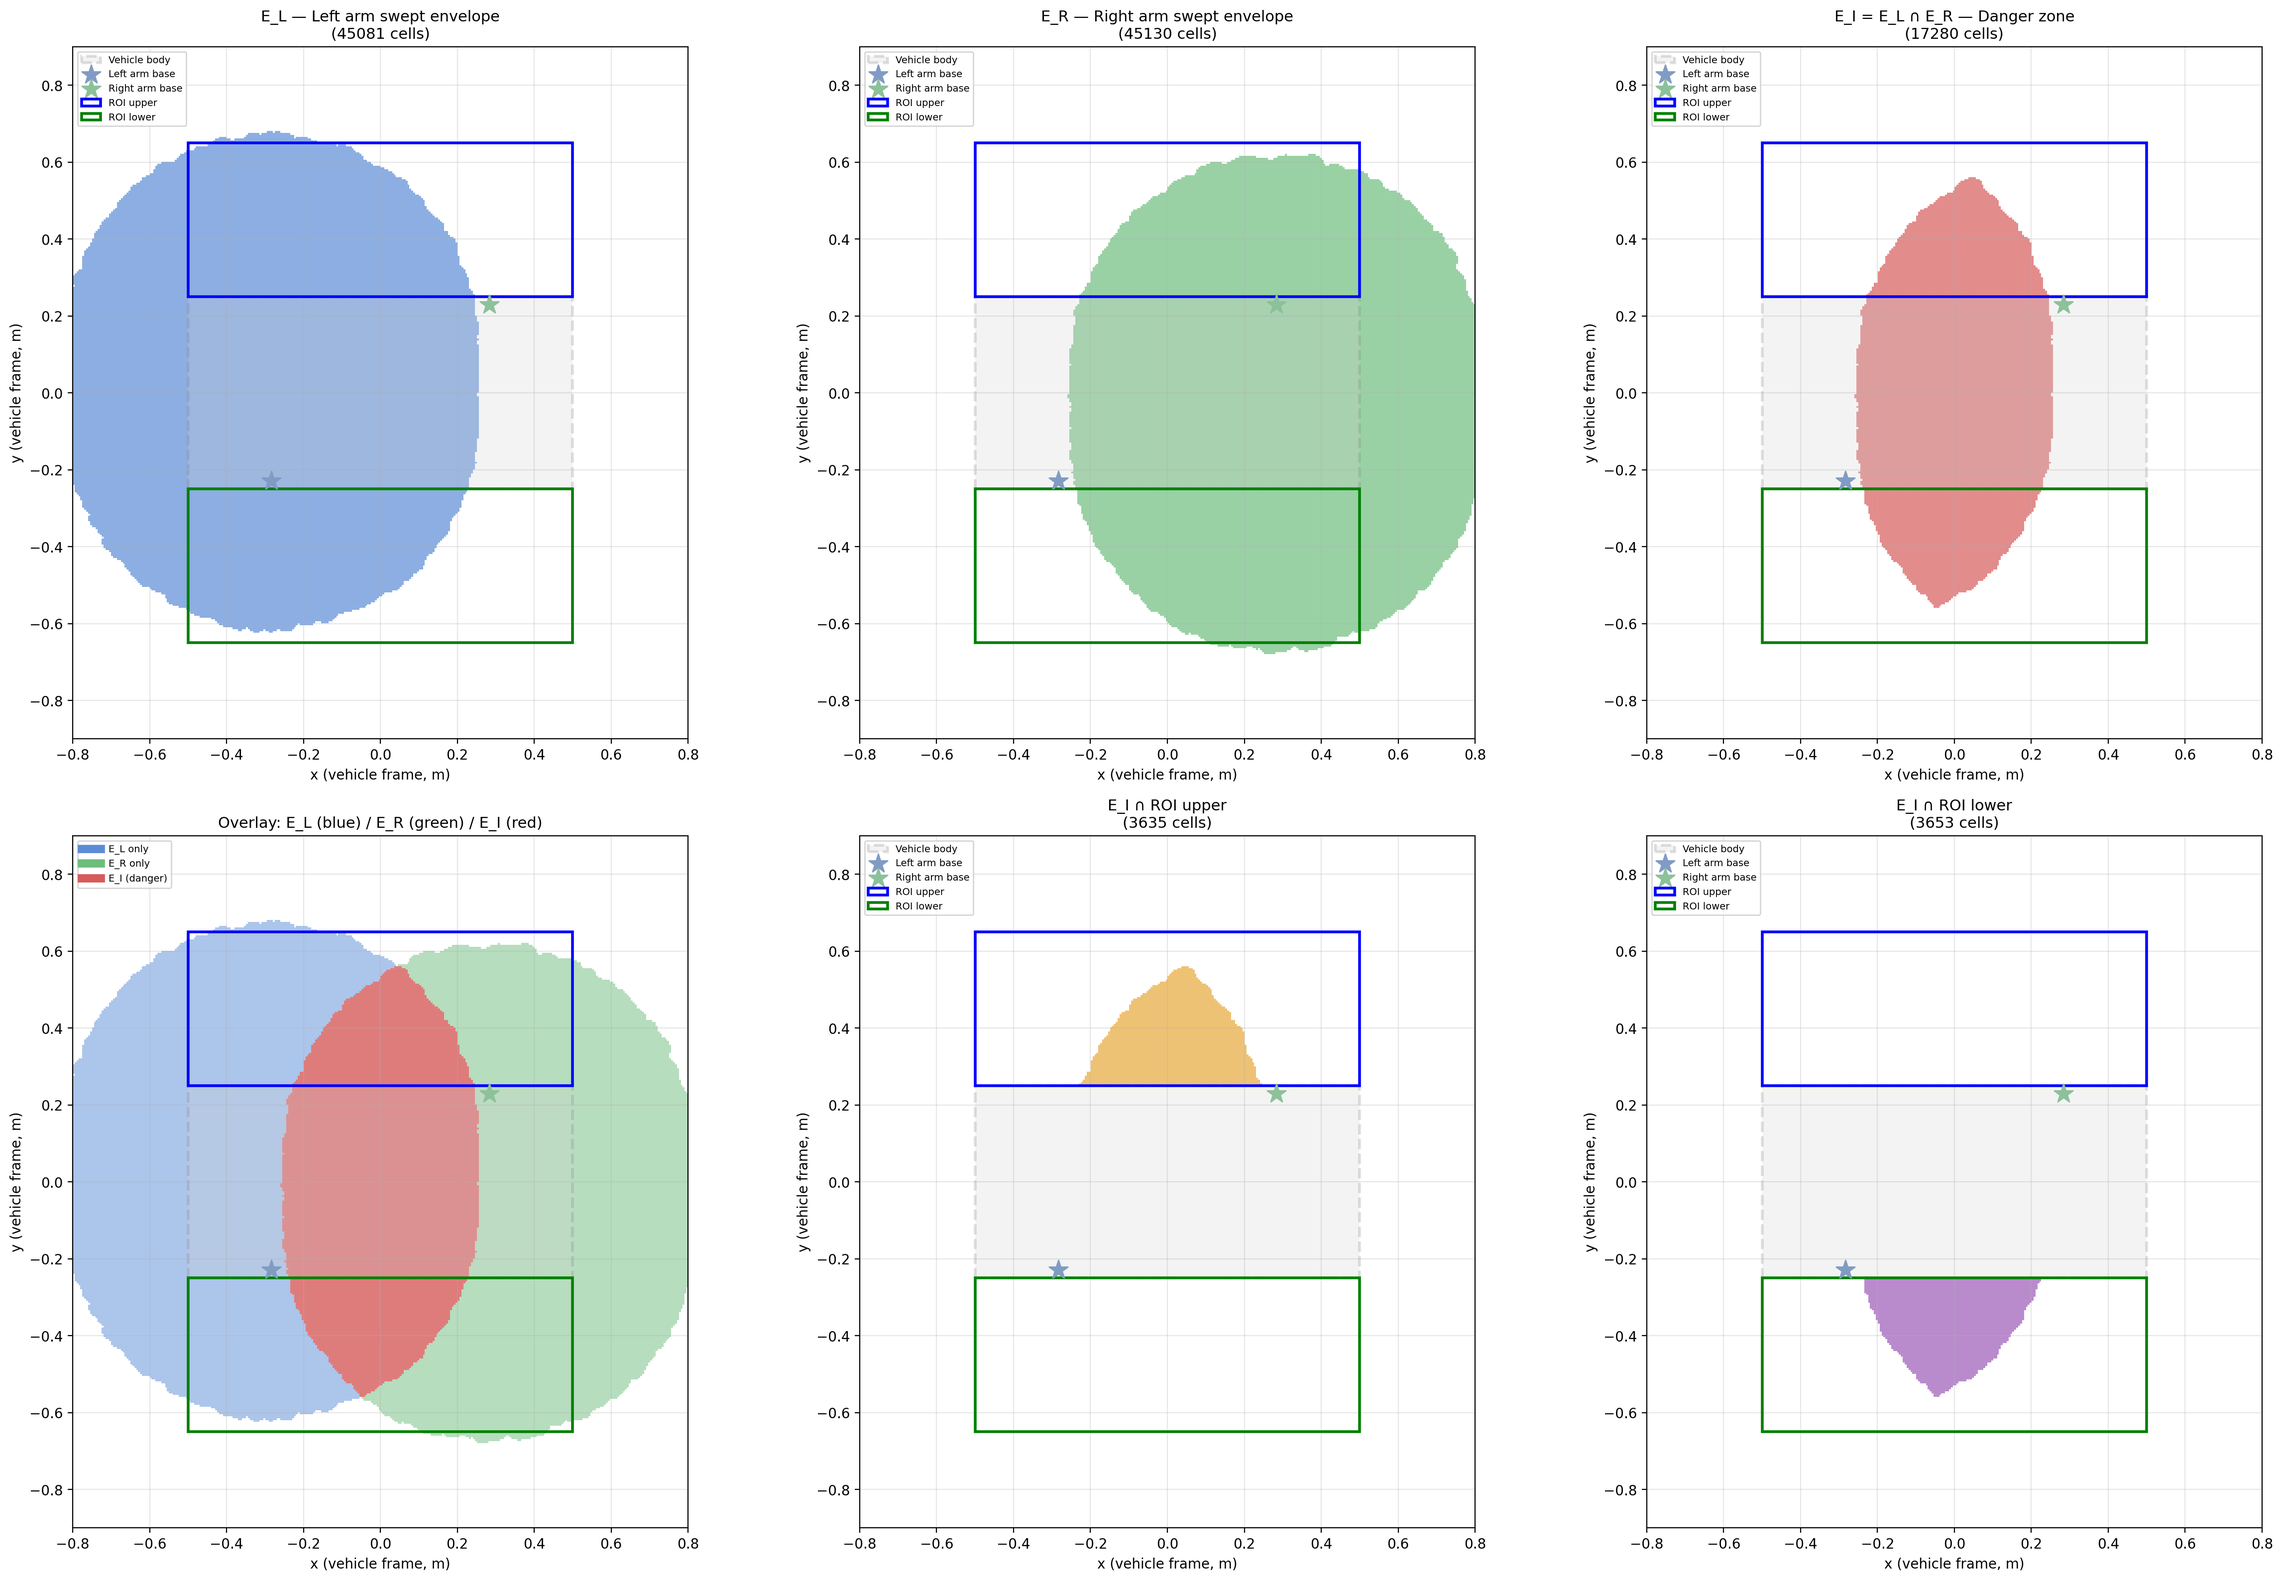
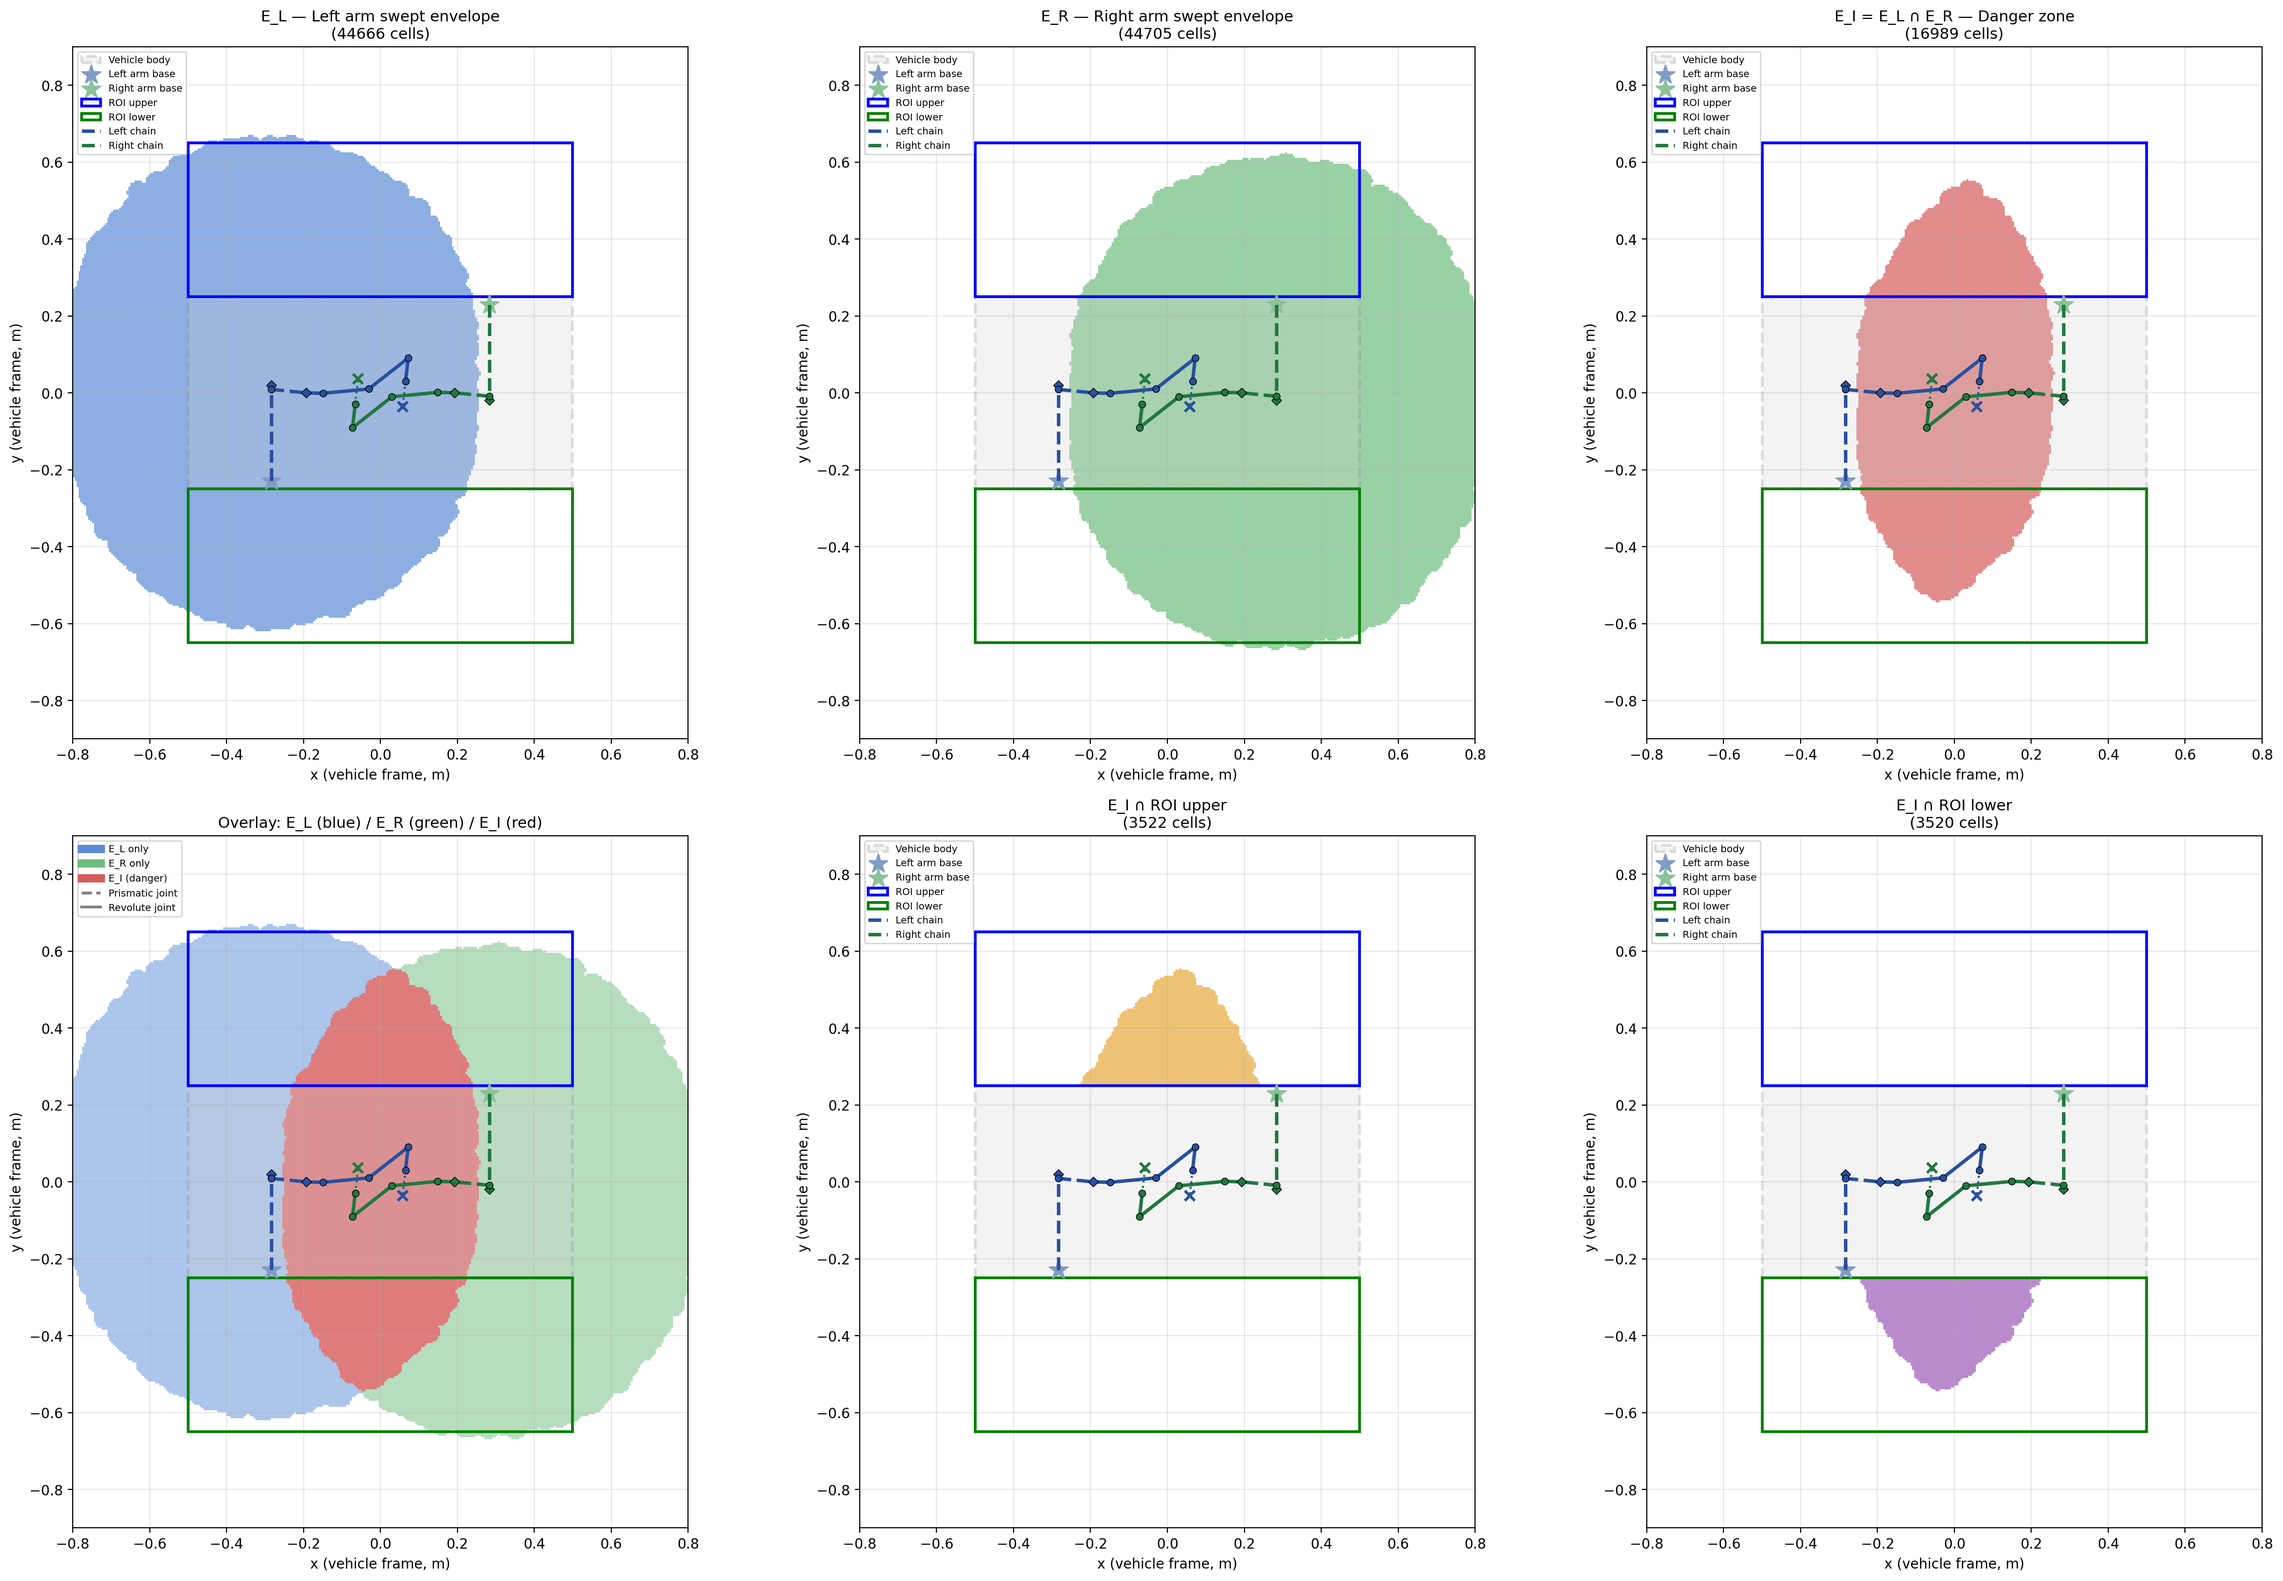
Add arm kinematic chain visualization to danger zone envelopes plot
Draw both arms' FK chains at q_home on all panels of
danger_zone_envelopes.png. Dashed lines denote prismatic joints,
solid lines denote revolute joints. Diamond/circle markers distinguish
joint types; x marks the end-effector.

Agent-Logs-Url: https://github.com/Sheepyyt/dual_arm_strawberry_planning/sessions/d61b3874-1aee-4b5d-9ae3-645fd8ec227f

diff --git a/roi/compute_danger_zone.py b/roi/compute_danger_zone.py
@@ -309,6 +309,51 @@ def rect_mask(grid, roi):
 # ===========================================================================
 # Visualisation
 # ===========================================================================
+def _draw_arm_chain(ax, chain, q, color, label_prefix):
+    """
+    Draw the arm kinematic chain at configuration *q* on axes *ax*.
+
+    * Dashed lines (--) for links actuated by **prismatic** joints.
+    * Solid lines (-)  for links actuated by **revolute** joints.
+    * The EE fixed-joint segment is drawn as a thin dotted line.
+    * Joint positions are marked with diamond ``D`` (prismatic) or circle ``o`` (revolute).
+    """
+    pts = chain.fk_all_frames(q)          # (n_joints+2, 3)
+    xs, ys = pts[:, 0], pts[:, 1]         # XY projection
+
+    # Draw each link segment
+    for i in range(len(pts) - 1):
+        if i < chain.n_joints:
+            jtype = chain.joint_types[i]
+            if jtype == "prismatic":
+                style, lw = "--", 2.5
+            else:
+                style, lw = "-", 2.5
+        else:
+            # EE fixed joint
+            style, lw = ":", 1.5
+
+        seg_label = None
+        if i == 0:
+            seg_label = f"{label_prefix} chain"
+
+        ax.plot([xs[i], xs[i + 1]], [ys[i], ys[i + 1]],
+                linestyle=style, linewidth=lw, color=color,
+                zorder=6, label=seg_label)
+
+    # Mark joint positions
+    for i in range(chain.n_joints):
+        jtype = chain.joint_types[i]
+        marker = "D" if jtype == "prismatic" else "o"  # ◇ vs ●
+        ax.plot(xs[i + 1], ys[i + 1], marker=marker, markersize=5,
+                color=color, markeredgecolor="black", markeredgewidth=0.5,
+                zorder=7)
+
+    # Mark EE with a star
+    ax.plot(xs[-1], ys[-1], marker="x", markersize=7, color=color,
+            markeredgewidth=2, zorder=7)
+
+
 def _add_vehicle_and_bases(ax, T_left, T_right):
     """Draw vehicle body, arm bases, and ROI rectangles."""
     # Vehicle body
@@ -351,8 +396,14 @@ def _style_ax(ax, title):
 
 def plot_envelopes(grid_L, grid_R, grid_I,
                    grid_I_upper, grid_I_lower,
-                   T_left, T_right, save_path=None):
-    """Generate a multi-panel figure showing E_L, E_R, E_I and ROI intersections."""
+                   T_left, T_right, save_path=None,
+                   chain_L=None, chain_R=None, q_home=None):
+    """Generate a multi-panel figure showing E_L, E_R, E_I and ROI intersections.
+
+    If *chain_L*, *chain_R* and *q_home* are provided, each panel also draws
+    the kinematic chain of both arms at the home configuration.
+    Dashed lines = prismatic joints, solid lines = revolute joints.
+    """
 
     fig, axes = plt.subplots(2, 3, figsize=(24, 16))
 
@@ -366,6 +417,10 @@ def plot_envelopes(grid_L, grid_R, grid_I,
                   aspect="equal", cmap=cmap, alpha=alpha, zorder=0)
         _add_vehicle_and_bases(ax, T_left, T_right)
         _add_roi_rects(ax)
+        # Draw arm chains at q_home if provided
+        if chain_L is not None and chain_R is not None and q_home is not None:
+            _draw_arm_chain(ax, chain_L, q_home, color="#2850a0", label_prefix="Left")
+            _draw_arm_chain(ax, chain_R, q_home, color="#207840", label_prefix="Right")
         _style_ax(ax, title)
 
     cmap_blue = ListedColormap(["white", "#5b8bd6"])
@@ -404,6 +459,10 @@ def plot_envelopes(grid_L, grid_R, grid_I,
               aspect="equal", zorder=0)
     _add_vehicle_and_bases(ax, T_left, T_right)
     _add_roi_rects(ax)
+    # Draw arm chains on the overlay panel as well
+    if chain_L is not None and chain_R is not None and q_home is not None:
+        _draw_arm_chain(ax, chain_L, q_home, color="#2850a0", label_prefix="Left")
+        _draw_arm_chain(ax, chain_R, q_home, color="#207840", label_prefix="Right")
     _style_ax(ax, "Overlay: E_L (blue) / E_R (green) / E_I (red)")
     # Manual legend entries
     from matplotlib.lines import Line2D
@@ -411,6 +470,8 @@ def plot_envelopes(grid_L, grid_R, grid_I,
         Line2D([0], [0], color="#5b8bd6", lw=6, label="E_L only"),
         Line2D([0], [0], color="#6dbd7d", lw=6, label="E_R only"),
         Line2D([0], [0], color="#d65b5b", lw=6, label="E_I (danger)"),
+        Line2D([0], [0], color="gray", ls="--", lw=2, label="Prismatic joint"),
+        Line2D([0], [0], color="gray", ls="-", lw=2, label="Revolute joint"),
     ]
     ax.legend(handles=legend_el, loc="upper left", fontsize=7)
 
@@ -485,13 +546,20 @@ def main():
     print(f"\n  E_I ∩ ROI_upper cells: {n_IU}  ({n_IU * GRID_RES**2 * 1e4:.1f} cm²)")
     print(f"  E_I ∩ ROI_lower cells: {n_IL}  ({n_IL * GRID_RES**2 * 1e4:.1f} cm²)")
 
+    # ---- Home configuration (same seed as build_roi_table) ----
+    # 7-DOF home configuration (same as q_seed in build_roi_table.py):
+    # [j1_prismatic, j2_revolute, j3_prismatic, j4_revolute, j5_revolute, j6_revolute, j7_revolute]
+    q_home = np.array([0.10, 0.0, 0.23, -1.57, -2.40, -1.93, 0.0])
+
     # ---- Visualise ----
     fig_path = os.path.join(RESULT_DIR, "danger_zone_envelopes.png")
     print(f"\nGenerating visualisation → {fig_path}")
     plot_envelopes(grid_L, grid_R, grid_I,
                    grid_I_upper, grid_I_lower,
                    chain_L.T_base, chain_R.T_base,
-                   save_path=fig_path)
+                   save_path=fig_path,
+                   chain_L=chain_L, chain_R=chain_R,
+                   q_home=q_home)
 
     print("\nDone ✓")
 
